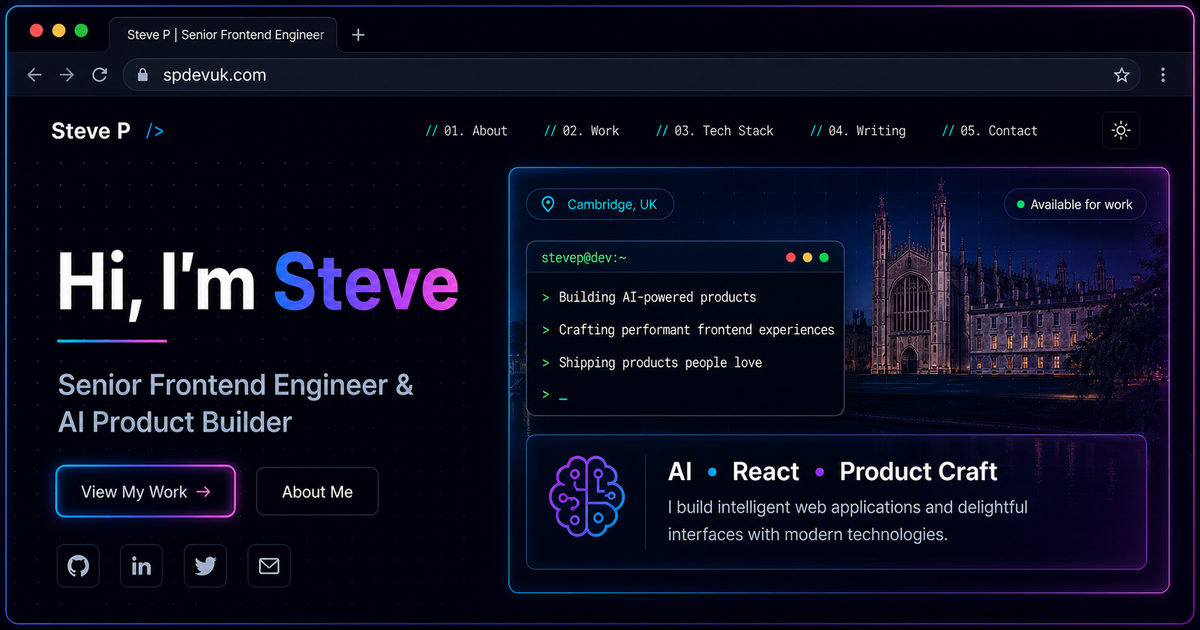
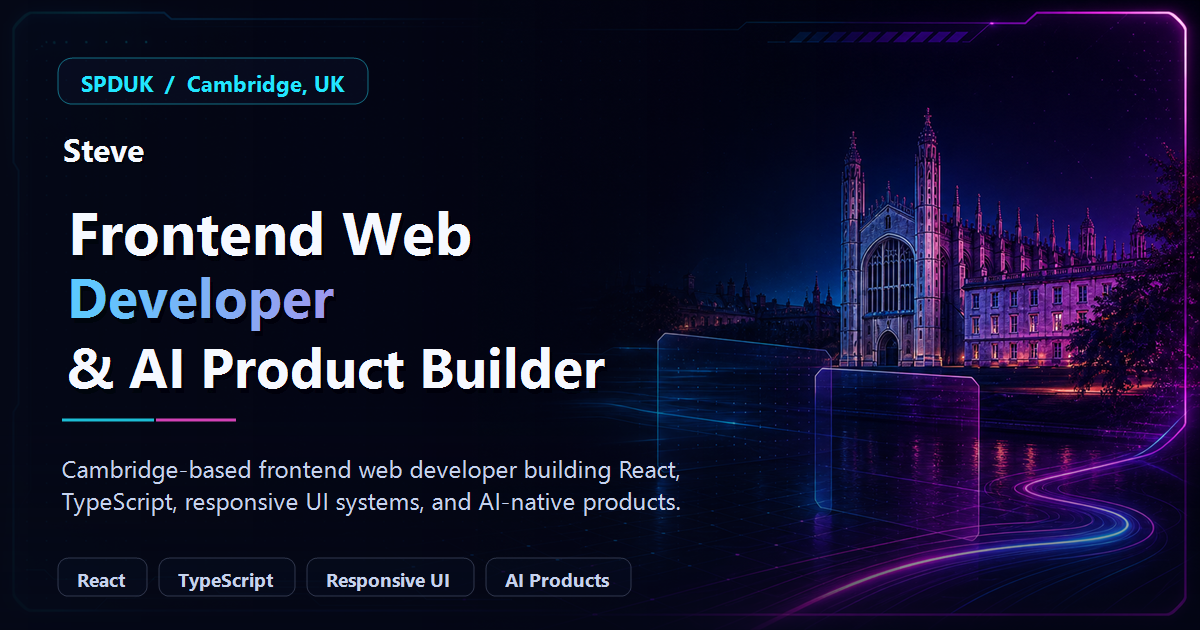
feat: slightly better SEO

diff --git a/src/styles/index.css b/src/styles/index.css
@@ -416,56 +416,128 @@ svg {
 }
 
 .navbar__desktop-menu {
+  position: relative;
   display: flex;
   align-items: center;
   justify-self: end;
   margin-left: auto;
-  gap: 10px;
-  min-height: 64px;
-  padding: 8px;
-  border: 1px solid rgba(34, 230, 255, 0.16);
+  gap: 6px;
+  min-height: 58px;
+  padding: 6px;
+  overflow: hidden;
+  border: 1px solid rgba(34, 230, 255, 0.14);
   border-radius: 16px;
-  background: rgba(10, 16, 36, 0.42);
+  background:
+    linear-gradient(135deg, rgba(255, 255, 255, 0.045), transparent 34%),
+    rgba(10, 16, 36, 0.34);
   box-shadow:
     inset 0 1px 0 rgba(255, 255, 255, 0.06),
-    0 16px 42px -30px rgba(76, 141, 255, 0.7);
-  backdrop-filter: blur(10px);
+    0 16px 42px -34px rgba(76, 141, 255, 0.62);
+  backdrop-filter: blur(10px) saturate(1.08);
+}
+
+.navbar__desktop-menu::before {
+  position: absolute;
+  inset: 1px;
+  border-radius: 15px;
+  content: '';
+  background: linear-gradient(
+    90deg,
+    transparent,
+    rgba(34, 230, 255, 0.08),
+    transparent
+  );
+  opacity: 0.42;
+  pointer-events: none;
 }
 
 .navbar__link {
   position: relative;
+  z-index: 1;
   display: inline-flex;
   align-items: center;
   justify-content: center;
   gap: 6px;
-  min-width: 118px;
-  min-height: 46px;
-  padding: 0 18px;
+  min-width: 104px;
+  min-height: 44px;
+  padding: 0 17px;
+  border: 1px solid transparent;
   border-radius: 10px;
+  background: transparent;
   color: #b8c4e3;
   font-weight: 700;
+  letter-spacing: 0;
+  text-align: center;
+  text-shadow: none;
   transform: translate3d(0, 0, 0);
-  transform-origin: 50% 75%;
+  transform-origin: center;
+  transition:
+    background 170ms ease,
+    border-color 170ms ease,
+    color 170ms ease,
+    box-shadow 180ms ease,
+    transform 180ms cubic-bezier(0.23, 1, 0.32, 1);
+}
+
+.navbar__link::before {
+  position: absolute;
+  inset: 0;
+  border-radius: inherit;
+  content: '';
+  background:
+    linear-gradient(135deg, rgba(255, 255, 255, 0.085), transparent 38%),
+    linear-gradient(180deg, rgba(76, 141, 255, 0.16), rgba(7, 14, 32, 0.34)),
+    radial-gradient(
+      circle at 50% 115%,
+      rgba(34, 230, 255, 0.26),
+      transparent 52%
+    );
+  opacity: 0;
+  pointer-events: none;
+  transition: opacity 180ms ease;
 }
 
 .navbar__link svg {
+  position: relative;
+  z-index: 1;
   width: 15px;
   height: 15px;
+  opacity: 0.82;
   transition: transform 180ms cubic-bezier(0.23, 1, 0.32, 1);
 }
 
 .navbar__link--active,
 .navbar__link:hover {
   color: var(--foreground);
-  background: rgba(76, 141, 255, 0.1);
+  border-color: rgba(34, 230, 255, 0.34);
+  background: rgba(10, 18, 42, 0.34);
+  box-shadow:
+    inset 0 1px 0 rgba(255, 255, 255, 0.1),
+    0 0 0 1px rgba(34, 230, 255, 0.08),
+    0 0 24px -16px rgba(34, 230, 255, 0.9),
+    0 12px 26px -24px rgba(180, 92, 255, 0.8);
+  text-shadow:
+    0 0 16px rgba(34, 230, 255, 0.2),
+    0 0 28px rgba(180, 92, 255, 0.14);
 }
 
-.navbar__link--active::after {
+.navbar__link--active svg,
+.navbar__link:hover svg {
+  opacity: 1;
+}
+
+.navbar__link--active::before,
+.navbar__link:hover::before {
+  opacity: 1;
+}
+
+.navbar__link::after {
   position: absolute;
-  right: 25%;
-  bottom: -8px;
-  left: 25%;
+  bottom: 7px;
+  left: 50%;
+  width: 34px;
   height: 2px;
+  border-radius: 999px;
   content: '';
   background: linear-gradient(
     90deg,
@@ -473,29 +545,37 @@ svg {
     var(--neon-cyan),
     transparent
   );
-  box-shadow: 0 0 14px var(--neon-cyan);
+  box-shadow: 0 0 12px rgba(34, 230, 255, 0.82);
+  opacity: 0;
+  transform: translateX(-50%);
+  transition:
+    opacity 170ms ease,
+    width 180ms ease;
+}
+
+.navbar__link--active::after,
+.navbar__link:hover::after {
+  width: 40px;
+  opacity: 1;
 }
 
 @media (min-width: 861px) and (hover: hover) and (pointer: fine) {
   .navbar__desktop-menu .navbar__link {
     transition:
       color 160ms ease-out,
-      background-color 160ms ease-out,
-      box-shadow 180ms ease-out,
+      background 170ms ease,
+      border-color 170ms ease,
+      box-shadow 180ms ease,
       transform 180ms cubic-bezier(0.23, 1, 0.32, 1);
     will-change: transform;
   }
 
   .navbar__desktop-menu .navbar__link:hover {
-    animation: navbar-link-bounce 420ms cubic-bezier(0.23, 1, 0.32, 1);
-    box-shadow:
-      inset 0 1px 0 rgba(255, 255, 255, 0.12),
-      0 12px 28px -20px rgba(34, 230, 255, 0.92);
-    transform: translate3d(0, -3px, 0) scale(1.025);
+    transform: translateY(-1px);
   }
 
   .navbar__desktop-menu .navbar__link:hover svg {
-    transform: translate3d(1px, -1px, 0) rotate(8deg) scale(1.08);
+    transform: scale(1.04);
   }
 }
 
@@ -512,11 +592,16 @@ svg {
   justify-content: center;
   width: 46px;
   height: 46px;
-  border: 1px solid var(--border);
+  border: 1px solid rgba(34, 230, 255, 0.28);
   border-radius: 12px;
-  background: rgba(16, 23, 53, 0.76);
+  background:
+    linear-gradient(135deg, rgba(255, 255, 255, 0.1), transparent 42%),
+    rgba(10, 18, 42, 0.62);
   color: var(--foreground);
-  backdrop-filter: blur(14px);
+  box-shadow:
+    inset 0 1px 0 rgba(255, 255, 255, 0.1),
+    0 12px 28px -22px rgba(34, 230, 255, 0.68);
+  backdrop-filter: blur(14px) saturate(1.12);
 }
 
 .navbar__toggle svg {
@@ -2378,24 +2463,6 @@ pre[class*='language-'] {
   }
 }
 
-@keyframes navbar-link-bounce {
-  0% {
-    transform: translate3d(0, 0, 0) scale(1);
-  }
-
-  42% {
-    transform: translate3d(0, -5px, 0) scale(1.045);
-  }
-
-  68% {
-    transform: translate3d(0, -2px, 0) scale(1.015);
-  }
-
-  100% {
-    transform: translate3d(0, -3px, 0) scale(1.025);
-  }
-}
-
 @media (max-width: 1360px) {
   .projects-page .page-hero--split {
     grid-template-columns: 1fr;
@@ -2458,7 +2525,6 @@ pre[class*='language-'] {
 
   .navbar__toggle {
     display: inline-flex;
-    background: rgba(16, 23, 53, 0.7);
   }
 
   .navbar__mobile-menu {
@@ -2468,18 +2534,23 @@ pre[class*='language-'] {
     left: 16px;
     display: grid;
     gap: 8px;
-    padding: 16px;
-    border: 1px solid var(--border);
-    border-radius: 16px;
-    background: rgba(10, 16, 36, 0.95);
-    box-shadow: var(--shadow-neon);
-    backdrop-filter: blur(14px) saturate(1.12);
+    padding: 12px;
+    border: 1px solid rgba(76, 141, 255, 0.26);
+    border-radius: 18px;
+    background:
+      linear-gradient(135deg, rgba(76, 141, 255, 0.14), transparent 34%),
+      rgba(5, 9, 24, 0.92);
+    box-shadow:
+      inset 0 1px 0 rgba(255, 255, 255, 0.08),
+      var(--shadow-neon);
+    backdrop-filter: blur(14px) saturate(1.1);
     pointer-events: auto;
   }
 
-  .navbar__link {
+  .navbar__mobile-menu .navbar__link {
     width: 100%;
-    justify-content: flex-start;
+    min-height: 52px;
+    justify-content: center;
   }
 
   .home-hero {

diff --git a/src/components/Seo/Seo.tsx b/src/components/Seo/Seo.tsx
@@ -45,6 +45,7 @@ export const SEO = ({
         siteMetadata {
           title
           description
+          keywords
           image
           siteUrl
           author {
@@ -76,7 +77,7 @@ export const SEO = ({
   const personSchema = {
     '@context': 'https://schema.org',
     '@type': 'Person',
-    name: site.siteMetadata.author?.name || 'Steve P',
+    name: site.siteMetadata.author?.name || 'Steve',
     alternateName: ['SPDUK', 'SPDEVUK'],
     jobTitle: 'Senior Software Engineer, Frontend Lead',
     url: siteUrl,
@@ -124,7 +125,7 @@ export const SEO = ({
     },
     {
       name: `keywords`,
-      content: `Senior Software Engineer Cambridge, frontend lead, React engineer, TypeScript engineer, AI product engineer, agentic workflows, enterprise UI systems, Codex, Claude Code, Cursor`,
+      content: site.siteMetadata.keywords,
     },
     {
       property: `og:title`,
@@ -152,7 +153,7 @@ export const SEO = ({
     },
     {
       property: `og:image:alt`,
-      content: `Steve P senior software engineer and AI frontend lead portfolio preview`,
+      content: `Steve frontend web developer and AI product builder portfolio preview`,
     },
     {
       property: `og:url`,
@@ -161,6 +162,14 @@ export const SEO = ({
     {
       name: `twitter:card`,
       content: `summary_large_image`,
+    },
+    {
+      name: `twitter:title`,
+      content: title,
+    },
+    {
+      name: `twitter:description`,
+      content: metaDescription,
     },
     {
       name: `twitter:image`,

diff --git a/gatsby-config.js b/gatsby-config.js
@@ -1,10 +1,11 @@
 module.exports = {
   siteMetadata: {
-    title: `Steve P | Senior Frontend Engineer & AI Product Builder`,
+    title: `Steve`,
     author: {
-      name: `Steve P`,
+      name: `Steve`,
     },
-    description: `Steve P is a Cambridge-based Senior Software Engineer and frontend lead building AI-native product experiences, enterprise React UI systems, and agentic developer workflows.`,
+    description: `Steve is a Cambridge-based frontend web developer and senior software engineer building React, TypeScript, responsive UI systems, and AI-native product experiences.`,
+    keywords: `Steve, SPDUK, SPDEVUK, frontend web developer, frontend developer, frontend engineer, frontend designer, web developer Cambridge, Cambridge web developer, UK frontend developer, React developer, TypeScript developer, JavaScript developer, CSS expert, HTML expert, responsive web design, responsive UI, UI designer, UX designer, user interface design, user experience design, web development, remote web developer, contract frontend developer, freelance frontend developer, AI product builder, AI product engineer, agentic workflows, Codex, Claude Code, Cursor, Gatsby`,
     siteUrl: `https://spdevuk.com`,
     image: `/social-preview.png`,
     social: {

diff --git a/src/pages/index.tsx b/src/pages/index.tsx
@@ -4,13 +4,12 @@ import { Layout } from '../components/Layout/Layout'
 import { SEO } from '../components/Seo'
 import { Hero } from '../components/Hero/Hero'
 import { Technologies } from '../components/Technologies'
-import { WorkHistory } from '../components/WorkHistory'
 
 const HomeIndex = () => (
   <Layout wide>
     <SEO
-      title="Senior Frontend Engineer & AI Product Builder"
-      description="Steve P is a Cambridge-based Senior Software Engineer and frontend lead building AI-native product experiences, React and TypeScript UI systems, and practical agentic developer workflows."
+      title="Frontend Web Developer & AI Product Builder"
+      description="Steve is a Cambridge-based frontend web developer and senior software engineer building React, TypeScript, responsive UI systems, and AI-native product experiences."
       pathname="/"
     />
     <Hero />

diff --git a/src/components/WorkHistory/WorkHistory.tsx b/src/components/WorkHistory/WorkHistory.tsx
@@ -1,5 +1,5 @@
 import React, { useRef } from 'react'
-import { BadgeCheck, Bot, BriefcaseBusiness } from 'lucide-react'
+import { BadgeCheck } from 'lucide-react'
 import { useRevealTimeline } from '../../hooks/useRevealTimeline'
 
 import experienceBuilderImage from '../../../content/assets/work-experience-builder.png'

diff --git a/src/types/siteQuery.ts b/src/types/siteQuery.ts
@@ -2,6 +2,7 @@ export interface SiteQuery {
   siteMetadata: {
     title: string
     description?: string
+    keywords: string
     siteUrl?: string
     image?: string
     author?: {
